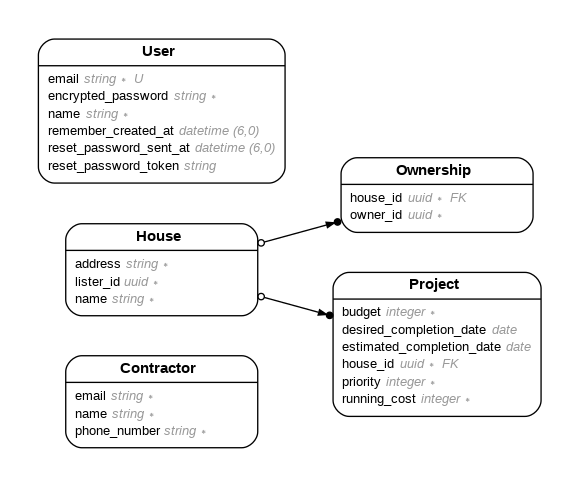
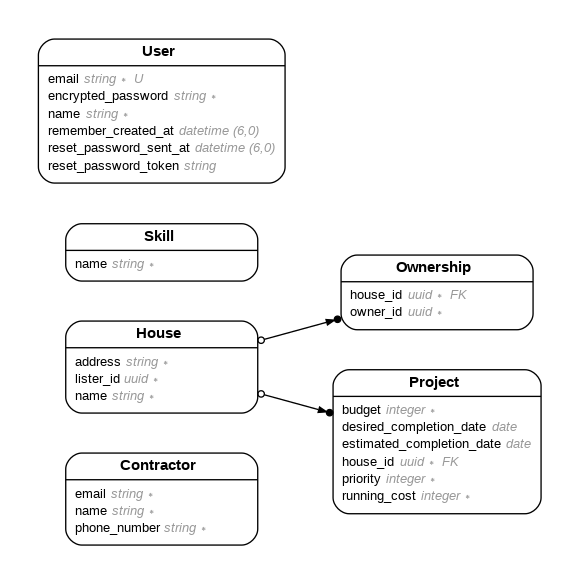
Migrate skills

Changed region(s): [[0.0622, 0.0616, 0.9637, 0.9548]]

diff --git a/db/schema.rb b/db/schema.rb
@@ -10,7 +10,7 @@
 #
 # It's strongly recommended that you check this file into your version control system.
 
-ActiveRecord::Schema[7.1].define(version: 2024_07_22_043200) do
+ActiveRecord::Schema[7.1].define(version: 2024_07_22_045210) do
   # These are extensions that must be enabled in order to support this database
   enable_extension "pgcrypto"
   enable_extension "plpgsql"
@@ -51,6 +51,12 @@ ActiveRecord::Schema[7.1].define(version: 2024_07_22_043200) do
     t.datetime "created_at", null: false
     t.datetime "updated_at", null: false
     t.index ["house_id"], name: "index_projects_on_house_id"
+  end
+
+  create_table "skills", id: :uuid, default: -> { "gen_random_uuid()" }, force: :cascade do |t|
+    t.string "name", default: "", null: false
+    t.datetime "created_at", null: false
+    t.datetime "updated_at", null: false
   end
 
   create_table "users", id: :uuid, default: -> { "gen_random_uuid()" }, force: :cascade do |t|

diff --git a/spec/models/skill_spec.rb b/spec/models/skill_spec.rb
@@ -1,3 +1,12 @@
+# == Schema Information
+#
+# Table name: skills
+#
+#  id         :uuid             not null, primary key
+#  name       :string           default(""), not null
+#  created_at :datetime         not null
+#  updated_at :datetime         not null
+#
 require 'rails_helper'
 
 RSpec.describe Skill, type: :model do

diff --git a/app/models/skill.rb b/app/models/skill.rb
@@ -1,2 +1,11 @@
+# == Schema Information
+#
+# Table name: skills
+#
+#  id         :uuid             not null, primary key
+#  name       :string           default(""), not null
+#  created_at :datetime         not null
+#  updated_at :datetime         not null
+#
 class Skill < ApplicationRecord
 end
